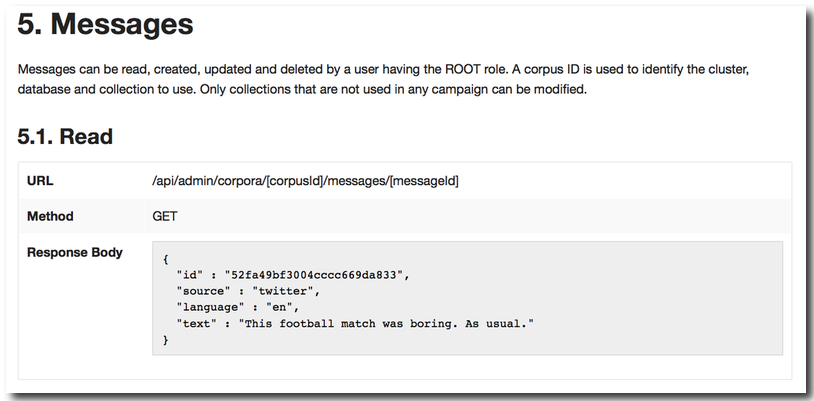
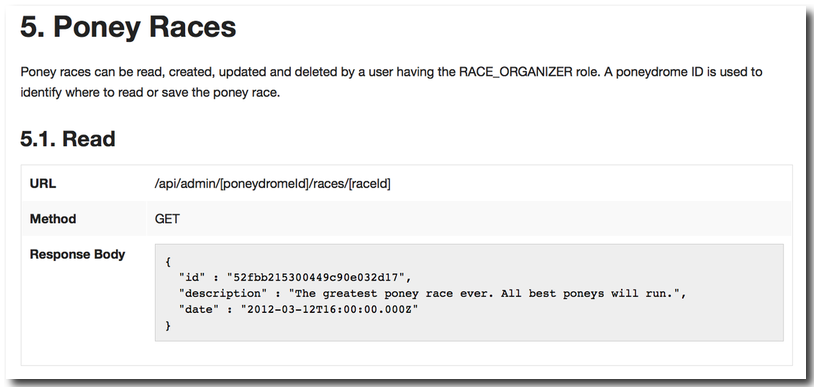
fixes after review. Now use a poney race as example

diff --git a/_posts/2014-02-25-rest-api-doc-with-asciidoctor-and-gradle.md b/_posts/2014-02-25-rest-api-doc-with-asciidoctor-and-gradle.md
@@ -5,70 +5,73 @@ author: jbnizet
 tags: [asciidoctor, gradle, doc, rest]
 ---
 
-Generating documentation for a Java API is quite easy. Javadoc is a great and easy to use tool, integrated in every Java build tool,
+Generating documentation for a Java API is quite easy. Javadoc is a great and easy to use tool, integrated with every Java build tool,
 and produces a result that every Java developer is (or should be) comfortable with.
 
 Generating documentation for a REST API is not as easy. You can implement a RESTful backend in any language you can imagine. Once you have chosen one
 (Java, in our case), the way you define it and implement it depends on the frameworks you choose: JAX-RS, Spring MVC, etc. Even assuming you have a tool 
 understanding your framework, it also has to understand how your JSON serializer (Jackson, in this case) is configured and works. And if 
 you use annotations to define your validation constraints, it also has to understand them. All in all, automating the documentation generation
-of a REST API is much harder than doing it for a Java API.
+of a REST API is much harder than doing so for a Java API.
 
-We did some experiments with [Swagger](http://swagger.wordnik.com/), but were not really satisfied with the result. Its 
-[Spring MVC integration](https://github.com/martypitt/swagger-springmvc) doesn't handle all the signatures of the Spring MVC
-controller methods, the generated validation constraints are incorrect, and the end result is a bit rough. There's a good reason why
-popular REST API documentations like the Twitter API are not automatically generated, but carefully hand-crafted, so we finally decided to go this way, 
-and this post describes how we did it.
+We did some experiments with [Swagger](http://swagger.wordnik.com/), but were not really satisfied with the result. It has good points: language
+and framework-agnostic framework, automatic generation from code and annotations, JSON structure descriptions and examples, possibility to send GET 
+and POST requests directly from the documentation.
+
+But its [Spring MVC integration](https://github.com/martypitt/swagger-springmvc) doesn't handle all the signatures of the Spring MVC
+controller methods, the generated validation constraints are incorrect, and the end result is a bit rough. It's also non-trivial to have an offline
+version of the documentation. 
+
+There are goods reasons why popular REST API documentations like the Twitter API are not automatically generated, but 
+carefully hand-crafted. So we finally decided to go this way, and this post describes how we did it.
 
 ## Asciidoc
 
 First af all, we wanted to be free to organize the documentation as we wanted, to provide introductory paragraphs about the general
 conventions, etc. Being able to generate it in various formats (HTML, PDF, etc.) is also something we found useful. And an automatically generated
 table of contents is great as well. So we decided
-to go with [Asciidoc](http://www.methods.co.nz/asciidoc/) and, more specifically, Asciidoctor. A typical service documentation 
+to go with [Asciidoc](http://www.methods.co.nz/asciidoc/) and, more specifically, [Asciidoctor](http://asciidoctor.org/). A typical service documentation 
 looks like this in our Asciidoc document:
 
-    == Messages
+    == Poney Races
 
-    Messages can be read, created, updated and deleted by a user having the 
-    ROOT role. A corpus ID is used to identify the cluster, database and 
-    collection to use. Only collections that are not used in any campaign 
-    can be modified.
+    Poney races can be read, created, updated and deleted by a user having the 
+    RACE_ORGANIZER role. A poneydrome ID is used to identify where to read 
+    or save the poney race.
 
     === Read
 
     [cols="h,5a"]
     |===
     | URL
-    | /api/admin/corpora/[corpusId]/messages/[messageId]
+    | /api/admin/[poneydromeId]/races/[raceId]
 
     | Method
     | GET
 
     | Response Body
-    | include::{snippetDir}/message.json.adoc[]
+    | include::{snippetDir}/race.json.adoc[]
     |===
 
 You can add any information you like, in any format you like, in the documentation. This is a real advantage that allows making your documentation
 readable and understandable. But even more than the URLs, the HTTP methods and status codes, what matters is the nature and format of the data
-that is accepted or returned by the services. And this is where we automated it partially, to make sure it conforms to the reality of the actual API,
+accepted or returned by the services. And this is where we automated it partially, to make sure it conforms to the reality of the actual API,
 and to avoid having to hard-code JSON structures in the document. 
 
 ## JSON snippets generation
 
-The magic is thus in the include block in the snippet above. The `message.json.adoc` file is generated and contains an example JSON structure. 
+The magic is thus in the include block in the snippet above. The `race.json.adoc` file is generated and contains an example JSON structure. 
 To generate it, we use Java code that creates instances of Java objects that are actually returned by the service, and serialize them using the 
 same Jackson mapper, configured the same way as in the actual application (except for the indentation).
 
 So we simply have a class that contains methods like the following:
 
-    private Message message() {
-        Message message = new Message();
-        message.setId(new ObjectId().toString());
-        message.setText("This football match was boring. As usual.");
-        message.setSource("twitter");
-        message.setLanguage("en");
-        return message;
+    private PoneyRace poneyRace() {
+        PoneyRace race = new PoneyRace();
+        race.setId(new ObjectId().toString());
+        race.setDescription("The greatest poney race ever. All best poneys will run.");
+        race.setDate(DateTime.parse("2012-03-12T16:00:00Z"));
+        return race;
     }
 
 Every object that needs to be converted to JSON and included in the documentation is generated by a method such as the one above,
@@ -124,4 +127,4 @@ with the appropriate options in order to generate the documentation where we wan
 ## Conclusion
 
 Is this strategy perfect? Nope. You have to maintain the documentation as you maintain the code. Changing an URL in the code means also changing it in the
-documentation. But it does a good job, in a simple and flexible way, without having to fight with a tool which thinks it knows better than you do.
+documentation. But it does a good job, in a simple and flexible way, without having to fight with a tool which thinks it knows more than you do.
